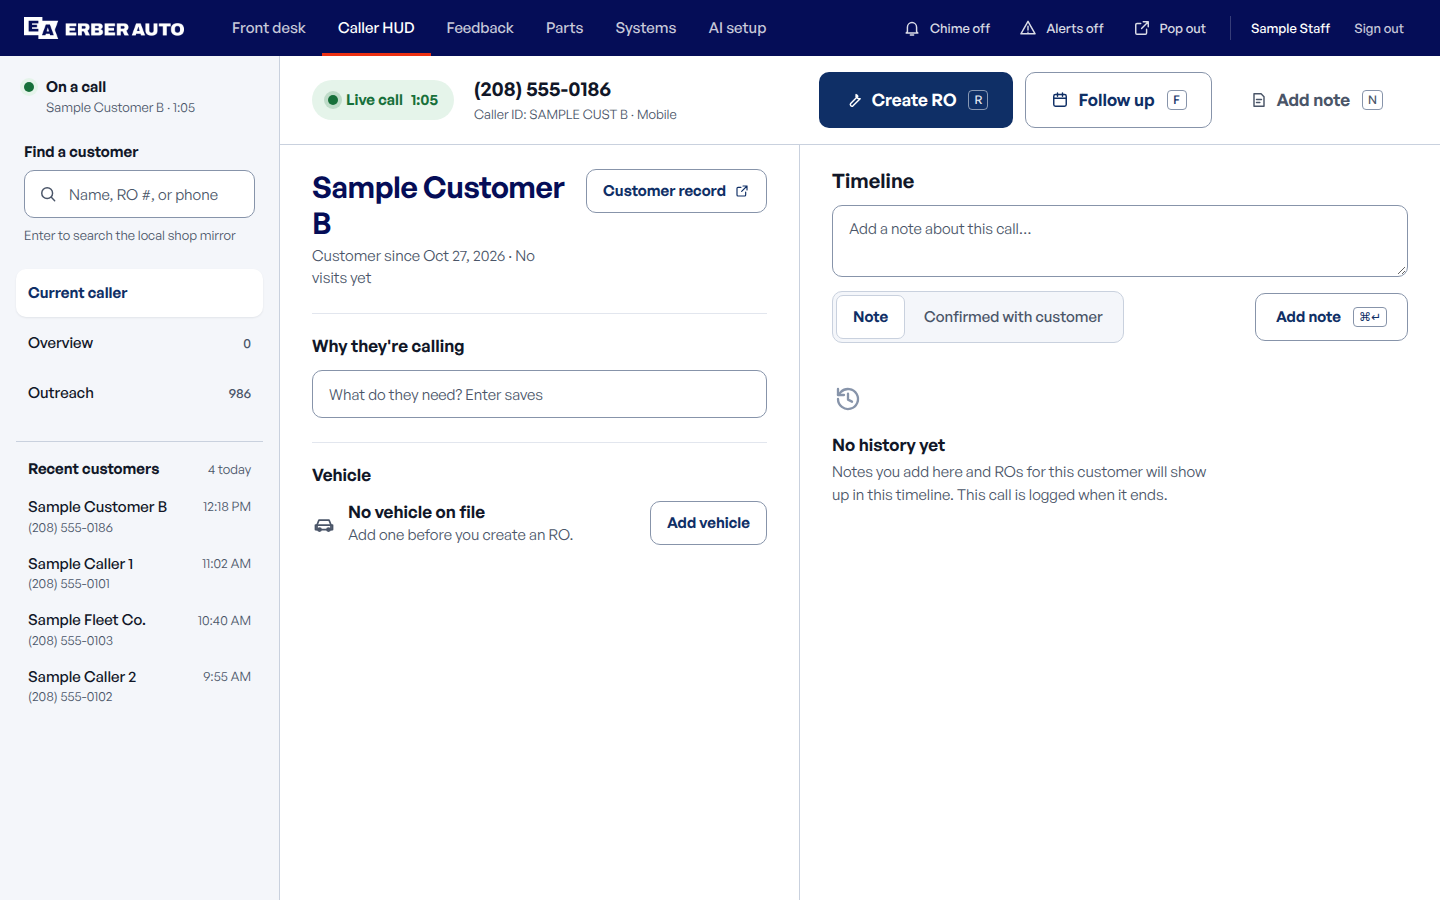
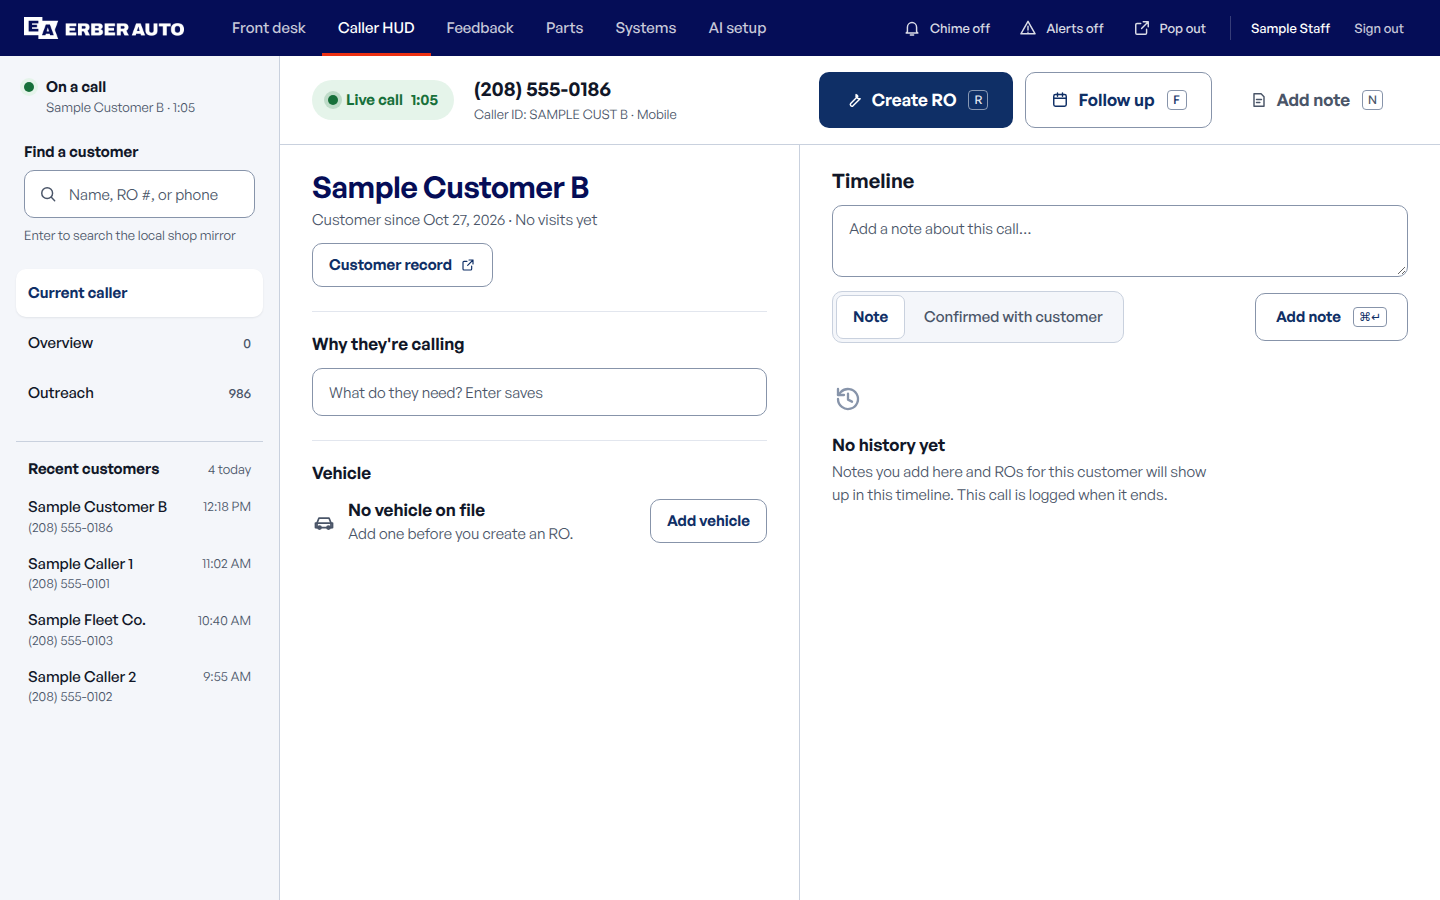
Caller HUD hill-climb round 3: stack customer record link

diff --git a/caller-hud-review/hud.css b/caller-hud-review/hud.css
@@ -31,7 +31,7 @@
 .cust { background: var(--color-surface); border-right: 1px solid var(--color-border); overflow: auto; padding: var(--space-6) var(--space-8) var(--space-8); }
 .tl { background: var(--color-surface); overflow: auto; padding: var(--space-6) var(--space-8) var(--space-8); }
 
-.cust-head { display: flex; justify-content: space-between; align-items: flex-start; gap: var(--space-4); }
+.cust-head { display: flex; flex-direction: column; align-items: flex-start; gap: var(--space-3); }
 .cust-head h1 { font-size: var(--text-2xl); font-weight: var(--weight-semibold); line-height: var(--leading-tight); color: var(--color-navy-dark); letter-spacing: -0.015em; }
 .cust-meta { color: var(--color-text-muted); margin-top: var(--space-1); }
 .cust-flags { margin-top: var(--space-3); display: flex; gap: var(--space-2); }
